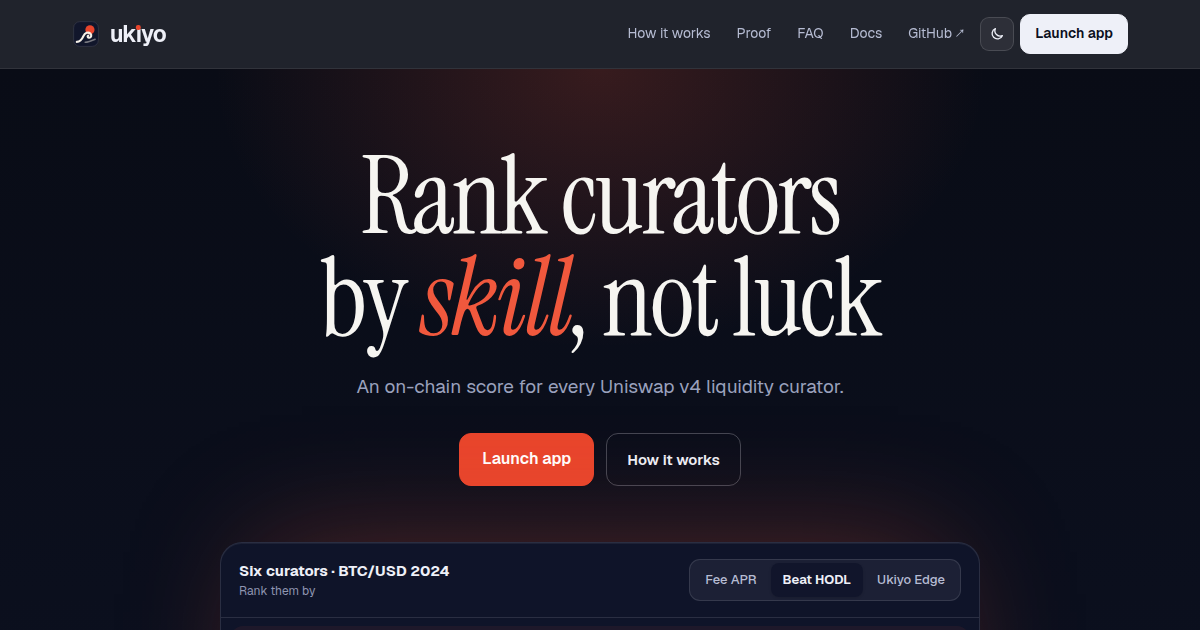
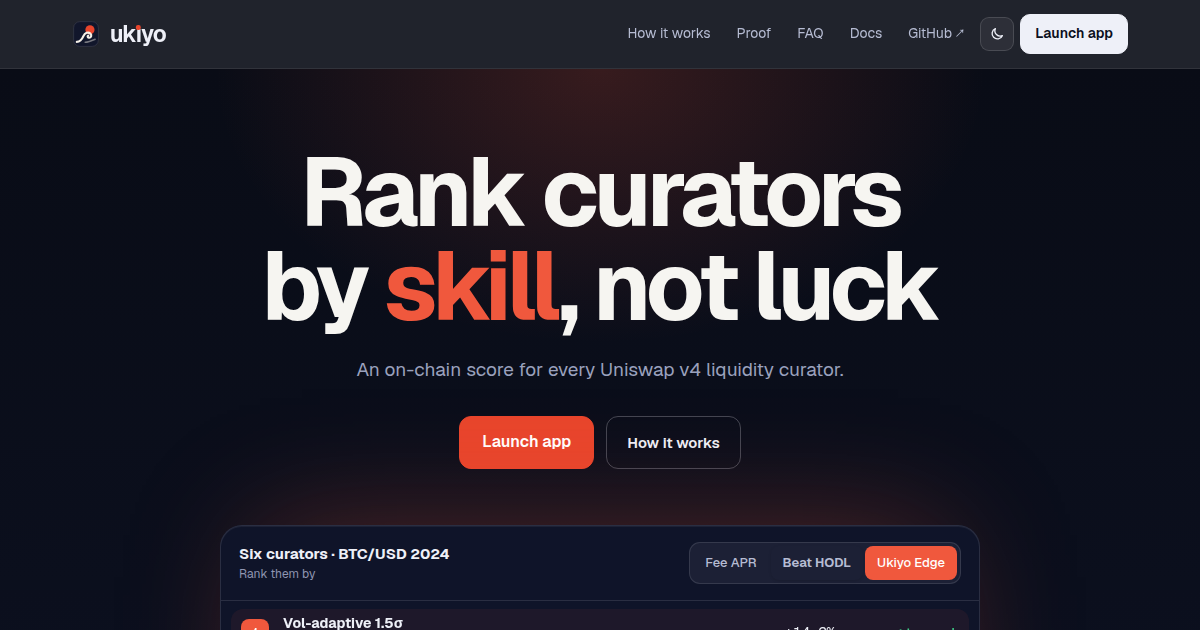
Site: headlines back in Geist Bold, keeping the drawing-free hero with the rank card under it

Changed region(s): [[0.2158, 0.2413, 0.8017, 0.7841], [0.185, 0.8143, 0.8017, 1.0], [0.6475, 0.9952, 0.7092, 1.0]]

diff --git a/web/src/app/layout.tsx b/web/src/app/layout.tsx
@@ -1,11 +1,9 @@
 import type { Metadata, Viewport } from "next";
-import { Geist, Geist_Mono, Instrument_Serif } from "next/font/google";
+import { Geist, Geist_Mono } from "next/font/google";
 import "./globals.css";
 
 const sans = Geist({ subsets: ["latin"], variable: "--font-sans" });
 const mono = Geist_Mono({ subsets: ["latin"], variable: "--font-mono" });
-// Headlines and the big numbers: an editorial serif, the printed voice next to Geist's interface voice.
-const display = Instrument_Serif({ subsets: ["latin"], weight: "400", style: ["normal", "italic"], variable: "--font-display" });
 
 // Where the site is published (Vercel; set at build time by scripts/deploy-vercel.sh); link previews need absolute URLs.
 const SITE = process.env.NEXT_PUBLIC_SITE_URL || "https://ukiyo-ochre.vercel.app/";
@@ -36,7 +34,7 @@ const themeScript = `try{var t=localStorage.getItem("ukiyo-theme");if(t==="light
 
 export default function RootLayout({ children }: { children: React.ReactNode }) {
   return (
-    <html lang="en" className={`${sans.variable} ${mono.variable} ${display.variable}`} suppressHydrationWarning>
+    <html lang="en" className={`${sans.variable} ${mono.variable}`} suppressHydrationWarning>
       <head>
         <script dangerouslySetInnerHTML={{ __html: themeScript }} />
       </head>

diff --git a/web/src/components/landing/landing.css b/web/src/components/landing/landing.css
@@ -834,19 +834,17 @@
 }
 
 .landing .l-hero h1 {
-  font-family: var(--display);
-  font-weight: 400;
   color: #f6f5f1;
-  letter-spacing: -0.025em;
-  font-size: clamp(52px, 9vw, 116px);
-  line-height: 0.95;
+  font-weight: 700;
+  letter-spacing: -0.05em;
+  font-size: clamp(46px, 8vw, 100px);
+  line-height: 0.98;
   margin: 0 auto 22px;
 }
 
 .l-hero h1 em {
-  font-style: italic;
+  font-style: normal;
   color: #f0583d;
-  margin-right: -0.05em;
 }
 
 .l-hero .l-lede {
@@ -878,24 +876,6 @@
 
 .hero-card .hr-card {
   box-shadow: 0 -30px 120px -40px rgba(240, 88, 61, 0.35), inset 0 1px 0 rgba(255, 255, 255, 0.06);
-}
-
-/* Section headings and the big numbers share the hero's serif */
-.landing .l-section h2,
-.landing .l-dark h2,
-.landing .l-final h2,
-.landing .l-numbers .big-num,
-.landing .l-live .big-num {
-  font-family: var(--display);
-  font-weight: 400;
-  letter-spacing: -0.02em;
-}
-
-.landing .l-section h2,
-.landing .l-dark h2,
-.landing .l-final h2 {
-  font-size: clamp(36px, 5vw, 58px);
-  line-height: 1.02;
 }
 
 /* Rank-by card */

diff --git a/web/src/app/globals.css b/web/src/app/globals.css
@@ -32,7 +32,6 @@
   --serif: var(--font-sans), system-ui, sans-serif;
   --sans: var(--font-sans), system-ui, sans-serif;
   --mono: var(--font-mono), ui-monospace, monospace;
-  --display: var(--font-display), Georgia, serif;
   color-scheme: light;
 }
 
@@ -980,23 +979,6 @@ details.table-view th {
 .wordmark-link {
   text-decoration: none;
   display: inline-flex;
-}
-
-/* Page titles share the landing page's editorial serif; interface headings stay in Geist. */
-.research-hero h1,
-.landing .docs-body h1 {
-  font-family: var(--display);
-  font-weight: 400;
-  letter-spacing: -0.02em;
-  line-height: 1.02;
-}
-
-.research-hero h1 {
-  font-size: clamp(40px, 6vw, 68px);
-}
-
-.landing .docs-body h1 {
-  font-size: clamp(44px, 6vw, 64px);
 }
 
 /* A button inside a nav keeps its own colours (the nav's link rule would otherwise grey its label). */
